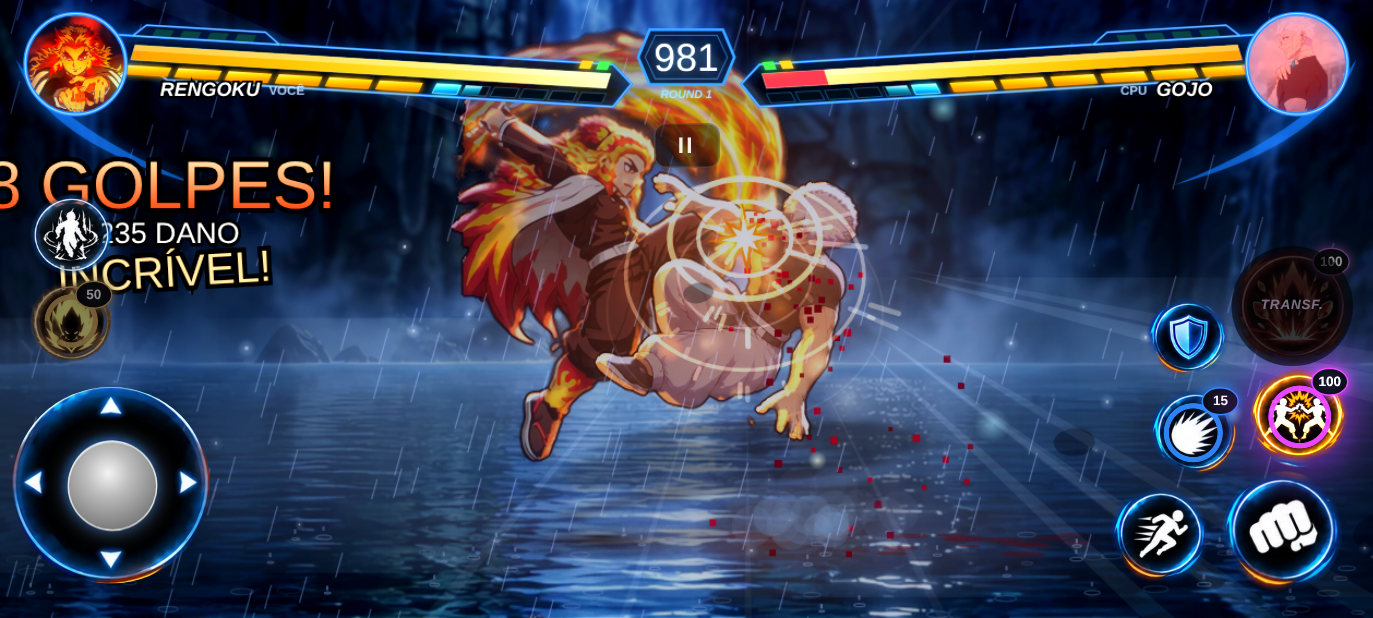
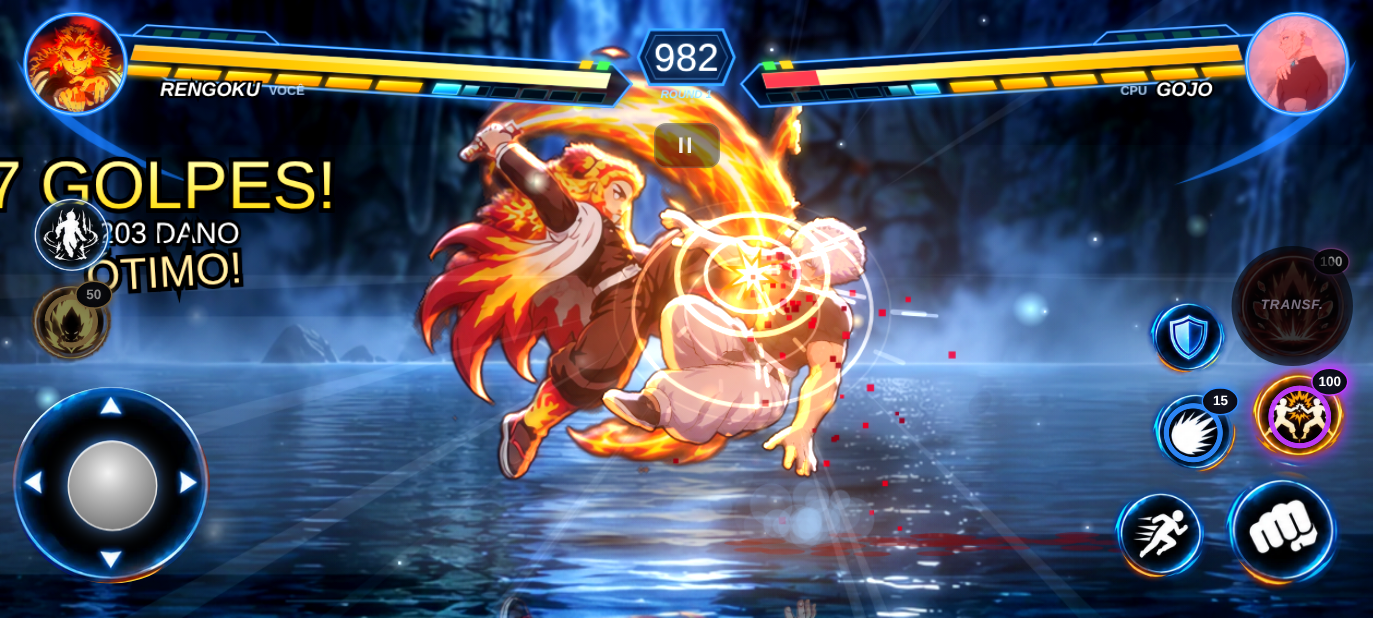
v158: Rengoku não voa, só pula
Claude-Session: https://claude.ai/code/session_01KtrZTmDkLnY2EE7eHvUsq1

diff --git a/www/index.html b/www/index.html
@@ -818,6 +818,7 @@ function mkFighter(id,x,facing,cpu){
 const bufd=(f,k)=>G.frame-f.buf[k]<=10+G.hsAcc, use=(f,k)=>{f.buf[k]=-99};
 function face(f,o){if(Math.abs(o.x-f.x)>4)f.facing=o.x>f.x?1:-1}
 function trySD(f,o){if(!o||o.ko||!(f.sdOK>G.frame)||o.grounded||o.state!=='airhit'||!bufd(f,'punch'))return false;use(f,'punch');f.sdOK=0;
+  if(isRg(f)){f.state='jump';f.st=0;f.move=null;f.flying=false;f.grounded=false;f.y-=2;f.vy=-16;f.vx=clamp((o.x-f.x)/20,-15,15);f.inv=6;SFX.zip();dust(f.x,FLOOR,8);txt(f.x,f.y-280,'SALTO!','#ffcf7a');return true}
   fzTag(f,'Perseguição!');fzRing(f);f.state='sdash';f.st=0;f.move=null;f.flying=true;f.grounded=false;f.y-=2;f.inv=6;SFX.zip();ring(f.x,f.y-120,E(f),90,12,4);txt(f.x,f.y-280,'SUPER DASH!','#bfe8ff');return true}
 function acPick(f,def){if(f.acNext&&G.frame-f.acEnd<=30){const n=f.acNext;f.acNext=null;return n}return def}
 function neutral(f){f.state=f.grounded?'idle':(f.flying?'fly':'jump');f.st=0;f.move=null}
@@ -898,7 +899,7 @@ function airControl(f,o){const I=f.inp,fw=f.facing,hf=fw>0?I.right:I.left,hb=fw>
     if(bufd(f,'sw')){use(f,'sw');startMove(f,'aslash');return true}
     if(!f.flying&&bufd(f,'kick')){use(f,'kick');startMove(f,'airkick');return true}}
   return tryCommon(f,o,hf,hb,true)}
-function startFly(f){if(isLf(f)&&!f.form){if(!f.cpu)say(f,'SÓ VOA NO GEAR 4');return}f.flying=true;f.state='fly';f.st=0;f.vy*=.3;f.upT=0;SFX.zip();ring(f.x,f.y-120,E(f),90,16,4);for(let i=0;i<10;i++)glow(f.x+rand(-30,30),f.y-rand(0,40),E(f),rand(6,12),20,rand(-1,1),rand(1,3))}
+function startFly(f){if(isRg(f)){if(f.state!=='jump'&&!f.grounded){f.state='jump';f.st=0;f.flying=false}return}if(isLf(f)&&!f.form){if(!f.cpu)say(f,'SÓ VOA NO GEAR 4');return}f.flying=true;f.state='fly';f.st=0;f.vy*=.3;f.upT=0;SFX.zip();ring(f.x,f.y-120,E(f),90,16,4);for(let i=0;i<10;i++)glow(f.x+rand(-30,30),f.y-rand(0,40),E(f),rand(6,12),20,rand(-1,1),rand(1,3))}
 function flyControl(f,o,ctl){
   face(f,o);const I=f.inp;
   if(!ctl){f.vx*=.85;f.vy*=.85;return}
@@ -4834,7 +4835,7 @@ $('goHow').onclick=()=>{audioInit();howFrom='config';showScreen('how')};
 $('pHow').onclick=()=>{howFrom='pause';showScreen('how')};
 $('howBack').onclick=()=>showScreen(howFrom);
 $('selBack').onclick=()=>showScreen('title');
-const ALLC=['aylla','zedry','zaykon','qingqing','goku','aokiji','zoro','broly','vegeta','gogeta','madara','gojo','luffy','rengoku'];const ROS={rengoku:{c:'#ff5a1a',d:'Hashira das Chamas, espadachim com movimentação profissional. Combo: corte, corte, Primeira Forma (corte de fogo), Segunda Forma (arco de fogo que lança). Ki = Primeira Forma: onda de fogo de longe; baixo+Ki = Segunda Forma (arco de fogo subindo). Combo dourado = Combo da Chama. Botão vermelho = Nona Forma: Rengoku. Transformação: Espírito da Chama — aura de fogo, bem mais rápido e forte, golpes deixam o rival queimando.',st:[84,94,82]},luffy:{c:'#d4202a',d:'Homem-borracha com movimentação profissional. Combo: soco, soco, soco que estica (Pistol), gancho (lança). Ki = Gomu Gomu no Pistol de longe; frente+Ki = Pistol forte; baixo+Ki = Metralhadora (Gatling). Combo dourado = combo pronto. Botão vermelho = Gomu Gomu no Bazooka. Não voa sem transformar. Transformação: Gear 4 Snakeman — o mais rápido do jogo, sempre quicando, golpes muito rápidos; dash some e aparece atrás do rival com chute; a cada 10 golpes levados desvia dos 3 seguintes; baixo+Ki = Black Mamba; botão vermelho = King Cobra.',st:[84,99,80]},gojo:{c:'#2a7bd8',d:'O feiticeiro mais forte, com movimentação profissional. Combo: soco, soco cruzado, sequência de socos, chute alto (lança). Ki = Azul (puxa o rival e explode). Combo dourado = combo de 16 golpes pronto. Transformação: Expansão de Domínio (Vazio Infinito) — o cenário vira o domínio, aura azul, muito mais rápido e desvia sozinho a cada 3 golpes; combo dourado vira o Combo do Domínio e o botão vermelho solta o ultimate.',st:[88,94,86]},madara:{c:'#c0182a',d:'Lenda Uchiha com movimentação profissional. Combo: soco, soco, joelhada, chute (lança). Ki = kunai de longe; frente+Ki = Bola de Fogo (sai da boca); baixo+Ki = corte de kunai. Combo dourado = combo aéreo pronto. Frente+Defesa = agarrão (não dá para defender). Transformação (Rinnegan): raios roxos, muito mais rápido, a cada 3 golpes recebidos desvia e contra-ataca sozinho; combo dourado vira o Combo do Rinnegan (dano alto) e o botão vermelho solta o Tengai Shinsei (meteoro).',st:[86,90,84]},gogeta:{c:'#2b8cff',d:'A fusão de Goku e Vegeta, com movimentação profissional. 2x para frente = dash/corrida; 2x para trás = esquiva; chute na defesa = contra-ataque. Combo: soco, soco, rajada de socos, soco forte e gancho (lança). Chute e chute alto (lança). Transforma no Super Saiyajin Blue (aura azul com raios, golpes mais fortes e rápidos). Especial: Rajada da Fusão. Ultimate: Destruidor Estelar.',st:[90,90,76]},vegeta:{c:'#2f6bff',d:'Príncipe Saiyajin com movimentação profissional. 2x para frente = dash/corrida; 2x para trás = esquiva; chute na defesa = contra-ataque. Transforma no Super Saiyajin Blue (aura azul com raios, combos mais rápidos). Especial: Clarão Final. Super: Impacto do Príncipe.',st:[88,86,74]},broly:{c:'#4bd62f',d:'Saiyajin lendário de força bruta, com combos pesados. Transforma no Super Saiyajin Lendário: força máxima e muito rápido, mas recupera pouco ki. Especial: Meteoro Verde. Super: Fúria do Planeta (o mais forte).',st:[86,98,66]},zoro:{c:'#a64dff',d:'Espadachim que luta só com espadas. Ki: Super Corte de longe (30 ki). Especial: Fúria do Demônio (400 de dano + lentidão). 1% de chance de redemoinho que ergue o rival. Transforma nas Lâminas do Rei: espadas roxas, mais alcance, raios roxos e 3% de crítico. Ultimate (transformado): Corte do Rei.',st:[84,90,70]},aokiji:{c:'#4ab8ff',d:'Almirante de gelo. Transforma no Corpo de Gelo: força enorme, ki sempre no máximo, cada golpe solta gelo e a cada 3 acertos deixa o rival lento. Ataque final: Era do Gelo, que congela o rival por 3 segundos.',st:[74,94,96]},goku:{c:'#ff8a1a',d:'Lutador Saiyajin. Por enquanto luta só com socos, chutes e a rajada de ki. Transforma no Super Saiyajin (cabelo dourado, aura amarela com raios azuis): força e velocidade muito maiores, mas recupera pouco ki. No Super Saiyajin: super ataque Kamehameha.',st:[88,88,70]},qingqing:{c:'#ff8ad8',d:'Raposa de nove caudas, a lutadora mais rápida do templo. Golpes fracos, mas muito rápidos. A cada alguns acertos dá um ataque de sedução que hipnotiza o rival por 1 segundo, e a cada 3 golpes que levaria, desvia sozinha de um. Transforma na Forma Lunar (aura branca). Ataque final: Julgamento Lunar. Especial: Coração Hipnótico (hipnotiza por 4 segundos).',st:[100,42,74]},zaykon:{c:'#3a8bff',d:'Guerreiro de cauda, filho de uma linhagem divina. Por enquanto luta só com socos e chutes. Transforma na Forma Azul (cabelo e aura azuis com raios roxos). Na Forma Azul: super ataque máximo Impacto Divino.',st:[86,82,78]},zedry:{c:'#ffc63d',d:'Guerreiro alienígena. Luta só com socos e chutes na forma normal. Forma Dourada (1 barra): Rajada Dourada. Forma Suprema (+2 barras, a partir da Dourada): dano e velocidade +30% e ultimate Impacto Estelar.',st:[86,80,72]},magmus:{c:'#ff5a14',d:'General de força bruta. Normal: só socos e chutes pesados. No Modo Magma (braços de lava) libera os especiais: Punho de Magma, Erupção (baixo/frente + Ki) e o especial Chuva de Magma.',st:[62,96,84]},denilson:{c:'#4ea4ff',d:'Lutador de rua com ki azul. Transforma no Anjo Sombrio com asas. Super: Chuva de Espadas Sombrias.',st:[85,68,80]},
+const ALLC=['aylla','zedry','zaykon','qingqing','goku','aokiji','zoro','broly','vegeta','gogeta','madara','gojo','luffy','rengoku'];const ROS={rengoku:{c:'#ff5a1a',d:'Hashira das Chamas, espadachim com movimentação profissional. Combo: corte, corte, Primeira Forma (corte de fogo), Segunda Forma (arco de fogo que lança). Ki = Primeira Forma: onda de fogo de longe; baixo+Ki = Segunda Forma (arco de fogo subindo). Combo dourado = Combo da Chama. Botão vermelho = Nona Forma: Rengoku. Transformação: Espírito da Chama — aura de fogo, bem mais rápido e forte, golpes deixam o rival queimando. Não voa: só pula (a perseguição depois de lançar vira um salto).',st:[84,94,82]},luffy:{c:'#d4202a',d:'Homem-borracha com movimentação profissional. Combo: soco, soco, soco que estica (Pistol), gancho (lança). Ki = Gomu Gomu no Pistol de longe; frente+Ki = Pistol forte; baixo+Ki = Metralhadora (Gatling). Combo dourado = combo pronto. Botão vermelho = Gomu Gomu no Bazooka. Não voa sem transformar. Transformação: Gear 4 Snakeman — o mais rápido do jogo, sempre quicando, golpes muito rápidos; dash some e aparece atrás do rival com chute; a cada 10 golpes levados desvia dos 3 seguintes; baixo+Ki = Black Mamba; botão vermelho = King Cobra.',st:[84,99,80]},gojo:{c:'#2a7bd8',d:'O feiticeiro mais forte, com movimentação profissional. Combo: soco, soco cruzado, sequência de socos, chute alto (lança). Ki = Azul (puxa o rival e explode). Combo dourado = combo de 16 golpes pronto. Transformação: Expansão de Domínio (Vazio Infinito) — o cenário vira o domínio, aura azul, muito mais rápido e desvia sozinho a cada 3 golpes; combo dourado vira o Combo do Domínio e o botão vermelho solta o ultimate.',st:[88,94,86]},madara:{c:'#c0182a',d:'Lenda Uchiha com movimentação profissional. Combo: soco, soco, joelhada, chute (lança). Ki = kunai de longe; frente+Ki = Bola de Fogo (sai da boca); baixo+Ki = corte de kunai. Combo dourado = combo aéreo pronto. Frente+Defesa = agarrão (não dá para defender). Transformação (Rinnegan): raios roxos, muito mais rápido, a cada 3 golpes recebidos desvia e contra-ataca sozinho; combo dourado vira o Combo do Rinnegan (dano alto) e o botão vermelho solta o Tengai Shinsei (meteoro).',st:[86,90,84]},gogeta:{c:'#2b8cff',d:'A fusão de Goku e Vegeta, com movimentação profissional. 2x para frente = dash/corrida; 2x para trás = esquiva; chute na defesa = contra-ataque. Combo: soco, soco, rajada de socos, soco forte e gancho (lança). Chute e chute alto (lança). Transforma no Super Saiyajin Blue (aura azul com raios, golpes mais fortes e rápidos). Especial: Rajada da Fusão. Ultimate: Destruidor Estelar.',st:[90,90,76]},vegeta:{c:'#2f6bff',d:'Príncipe Saiyajin com movimentação profissional. 2x para frente = dash/corrida; 2x para trás = esquiva; chute na defesa = contra-ataque. Transforma no Super Saiyajin Blue (aura azul com raios, combos mais rápidos). Especial: Clarão Final. Super: Impacto do Príncipe.',st:[88,86,74]},broly:{c:'#4bd62f',d:'Saiyajin lendário de força bruta, com combos pesados. Transforma no Super Saiyajin Lendário: força máxima e muito rápido, mas recupera pouco ki. Especial: Meteoro Verde. Super: Fúria do Planeta (o mais forte).',st:[86,98,66]},zoro:{c:'#a64dff',d:'Espadachim que luta só com espadas. Ki: Super Corte de longe (30 ki). Especial: Fúria do Demônio (400 de dano + lentidão). 1% de chance de redemoinho que ergue o rival. Transforma nas Lâminas do Rei: espadas roxas, mais alcance, raios roxos e 3% de crítico. Ultimate (transformado): Corte do Rei.',st:[84,90,70]},aokiji:{c:'#4ab8ff',d:'Almirante de gelo. Transforma no Corpo de Gelo: força enorme, ki sempre no máximo, cada golpe solta gelo e a cada 3 acertos deixa o rival lento. Ataque final: Era do Gelo, que congela o rival por 3 segundos.',st:[74,94,96]},goku:{c:'#ff8a1a',d:'Lutador Saiyajin. Por enquanto luta só com socos, chutes e a rajada de ki. Transforma no Super Saiyajin (cabelo dourado, aura amarela com raios azuis): força e velocidade muito maiores, mas recupera pouco ki. No Super Saiyajin: super ataque Kamehameha.',st:[88,88,70]},qingqing:{c:'#ff8ad8',d:'Raposa de nove caudas, a lutadora mais rápida do templo. Golpes fracos, mas muito rápidos. A cada alguns acertos dá um ataque de sedução que hipnotiza o rival por 1 segundo, e a cada 3 golpes que levaria, desvia sozinha de um. Transforma na Forma Lunar (aura branca). Ataque final: Julgamento Lunar. Especial: Coração Hipnótico (hipnotiza por 4 segundos).',st:[100,42,74]},zaykon:{c:'#3a8bff',d:'Guerreiro de cauda, filho de uma linhagem divina. Por enquanto luta só com socos e chutes. Transforma na Forma Azul (cabelo e aura azuis com raios roxos). Na Forma Azul: super ataque máximo Impacto Divino.',st:[86,82,78]},zedry:{c:'#ffc63d',d:'Guerreiro alienígena. Luta só com socos e chutes na forma normal. Forma Dourada (1 barra): Rajada Dourada. Forma Suprema (+2 barras, a partir da Dourada): dano e velocidade +30% e ultimate Impacto Estelar.',st:[86,80,72]},magmus:{c:'#ff5a14',d:'General de força bruta. Normal: só socos e chutes pesados. No Modo Magma (braços de lava) libera os especiais: Punho de Magma, Erupção (baixo/frente + Ki) e o especial Chuva de Magma.',st:[62,96,84]},denilson:{c:'#4ea4ff',d:'Lutador de rua com ki azul. Transforma no Anjo Sombrio com asas. Super: Chuva de Espadas Sombrias.',st:[85,68,80]},
   linfeng:{c:'#ff3047',d:'Mestre da katana e da chama carmesim. Transforma no Dragão Sombrio. Supers: Fúria do Dragão e Dança do Dragão.',st:[68,88,76]},
   denilson2:{c:'#3f8cff',d:'A nova versão do Denilson: mais rápido, com ki azul elétrico. Transforma na Fera Desperta (sem camisa, ki vermelho). Supers: Explosão Azul / Carmesim e Rush Relâmpago.',st:[90,72,84]},
   aylla:{c:'#a35cff',d:'Bruxa lutadora. Luta só com socos e chutes até ativar o Modo Arcano; aí libera magia: raios, lâminas, erupção e o Selo do Vazio.',st:[88,74,92]},

diff --git a/ferramentas/personagens/patch_rg.py b/ferramentas/personagens/patch_rg.py
@@ -40,7 +40,7 @@ rep("mdTick();gjTick();lfAirTick();","mdTick();gjTick();lfAirTick();rgTick();")
 rep("'madara','gojo','luffy'].includes(inn.def.id)","'madara','gojo','luffy','rengoku'].includes(inn.def.id)")
 rep("'madara','gojo','luffy'].includes(id);camReset(1.25)}","'madara','gojo','luffy','rengoku'].includes(id);camReset(1.25)}")
 rep("G.pick==='gojo'||G.pick==='luffy');","G.pick==='gojo'||G.pick==='luffy'||G.pick==='rengoku');")
-rep("'vegeta','gogeta','madara','gojo','luffy'];const ROS={","'vegeta','gogeta','madara','gojo','luffy','rengoku'];const ROS={rengoku:{c:'#ff5a1a',d:'Hashira das Chamas, espadachim com movimentação profissional. Combo: corte, corte, Primeira Forma (corte de fogo), Segunda Forma (arco de fogo que lança). Ki = Primeira Forma: onda de fogo de longe; baixo+Ki = Segunda Forma (arco de fogo subindo). Combo dourado = Combo da Chama. Botão vermelho = Nona Forma: Rengoku. Transformação: Espírito da Chama — aura de fogo, bem mais rápido e forte, golpes deixam o rival queimando.',st:[84,94,82]},")
+rep("'vegeta','gogeta','madara','gojo','luffy'];const ROS={","'vegeta','gogeta','madara','gojo','luffy','rengoku'];const ROS={rengoku:{c:'#ff5a1a',d:'Hashira das Chamas, espadachim com movimentação profissional. Combo: corte, corte, Primeira Forma (corte de fogo), Segunda Forma (arco de fogo que lança). Ki = Primeira Forma: onda de fogo de longe; baixo+Ki = Segunda Forma (arco de fogo subindo). Combo dourado = Combo da Chama. Botão vermelho = Nona Forma: Rengoku. Transformação: Espírito da Chama — aura de fogo, bem mais rápido e forte, golpes deixam o rival queimando. Não voa: só pula (a perseguição depois de lançar vira um salto).',st:[84,94,82]},")
 rep('const PTH={"luffy": "a/2c0d9d6b83b78c.webp",','const PTH={"rengoku": "a/4fade18ebe0855.webp","luffy": "a/2c0d9d6b83b78c.webp",')
 rep("const FULLIMG={luffy:'a/e3612d84a43d42.webp',","const FULLIMG={rengoku:'a/973de26236c824.webp',luffy:'a/e3612d84a43d42.webp',")
 rep('"nm_luffy":"a/f38dde355c91e0.mp3",','"nm_luffy":"a/f38dde355c91e0.mp3","nm_rengoku":"a/df8c1b25a8ff3d.mp3",')
@@ -48,4 +48,6 @@ rep("if(isGk(f)&&f.form){f.gacc=","if(isRg(f)&&f.form){f.racc=(f.racc||0)+.4;whi
 rep("  if(isRg(a)&&a.form&&d.hp>0)rgBurn(a,d);","  if(isRg(a)&&a.form&&d.hp>0)rgBurn(a,d);\n  if(isRg(a)&&a.state==='attack'&&a.move&&a.move.rgSw){smp('sgrd',.6,{gap:.05});rgSlashMark(h.px,h.py,a.facing,a.form?1.25:1)}")
 rep("\n  if(m.sword){if(f.mf===m.su+1)","\n  if(m.rgPush&&f.grounded&&f.mf>=m.su-2&&f.mf<=m.su+1)f.vx=m.rgPush*f.facing*Math.min(speedMul(f),1.4);if(m.rgSw&&f.mf===m.su+1){smp('furi',.7,{gap:.04});SFX.slash()}\n  if(m.sword){if(f.mf===m.su+1)")
 rep("if(f.ent&&f.ent.al<=0)return;smear(f,key,x,e);ctx.globalAlpha=f.ent?f.ent.al:1;","if(f.ent&&f.ent.al<=0)return;smear(f,key,x,e);ctx.globalAlpha=f.ent?f.ent.al:1;if(isRg(f))rgTween(f,key,x,e);")
+rep("function startFly(f){if(isLf(f)&&!f.form){","function startFly(f){if(isRg(f)){if(f.state!=='jump'&&!f.grounded){f.state='jump';f.st=0;f.flying=false}return}if(isLf(f)&&!f.form){")
+rep("use(f,'punch');f.sdOK=0;\n  fzTag(f,'Perseguição!');","use(f,'punch');f.sdOK=0;\n  if(isRg(f)){f.state='jump';f.st=0;f.move=null;f.flying=false;f.grounded=false;f.y-=2;f.vy=-16;f.vx=clamp((o.x-f.x)/20,-15,15);f.inv=6;SFX.zip();dust(f.x,FLOOR,8);txt(f.x,f.y-280,'SALTO!','#ffcf7a');return true}\n  fzTag(f,'Perseguição!');")
 open(P,'w').write(s);print('patched',len(s))

diff --git a/GUIA-CLAUDE.md b/GUIA-CLAUDE.md
@@ -286,3 +286,6 @@ O dono mandou uma especificação ("SISTEMA PROFISSIONAL DE COMBATE 2D": animaç
 ## v157 — zoom do combo enquadrando os dois + Rengoku mais fluido
 - Zoom da finalização (`finFrame`, chamado pelo `camDirector`): antes dava zoom em volta de um ponto da tela (o ponto ficava parado e o rival podia sair do quadro). Agora calcula uma caixa com os dois lutadores + o ponto do golpe, escolhe o zoom que cabe (1.08–1.7) e CENTRALIZA de verdade (`zx=(VW/2-sx*z)/(1-z)`, limitado a 0..VW). Primeiros 7 frames: soco de zoom no ponto do golpe (+0.28); depois abre para mostrar os dois. Perto da parede o enquadramento fica limitado pela borda do cenário.
 - Rengoku: 5º golpe na corrente de socos — `kfire` (corte flamejante = quadros 2–7 da folha do combo, 2 acertos); corrente: kjab → kjab2 → kknee → kfire → kstr. Cada corte dá um passo à frente (`move.rgPush`), som de espada (`furi`/`sgrd` do Zoro), marca de corte no ponto do golpe (`RGSL`), rastro da espada mais longo com núcleo branco, e o quadro anterior desbota por 3 frames por cima do novo (`rgTween`) para o movimento ficar mais fluido.
+
+## v158 — Rengoku não voa
+- Pedido do dono: o Rengoku só pula. `startFly` não faz nada para ele (o botão de voar vira pulo; segurar para cima no ar não voa); a CPU também não voa com ele. O Super Dash depois de lançar vira um SALTO na direção do rival (`trySD`, texto "SALTO!").
